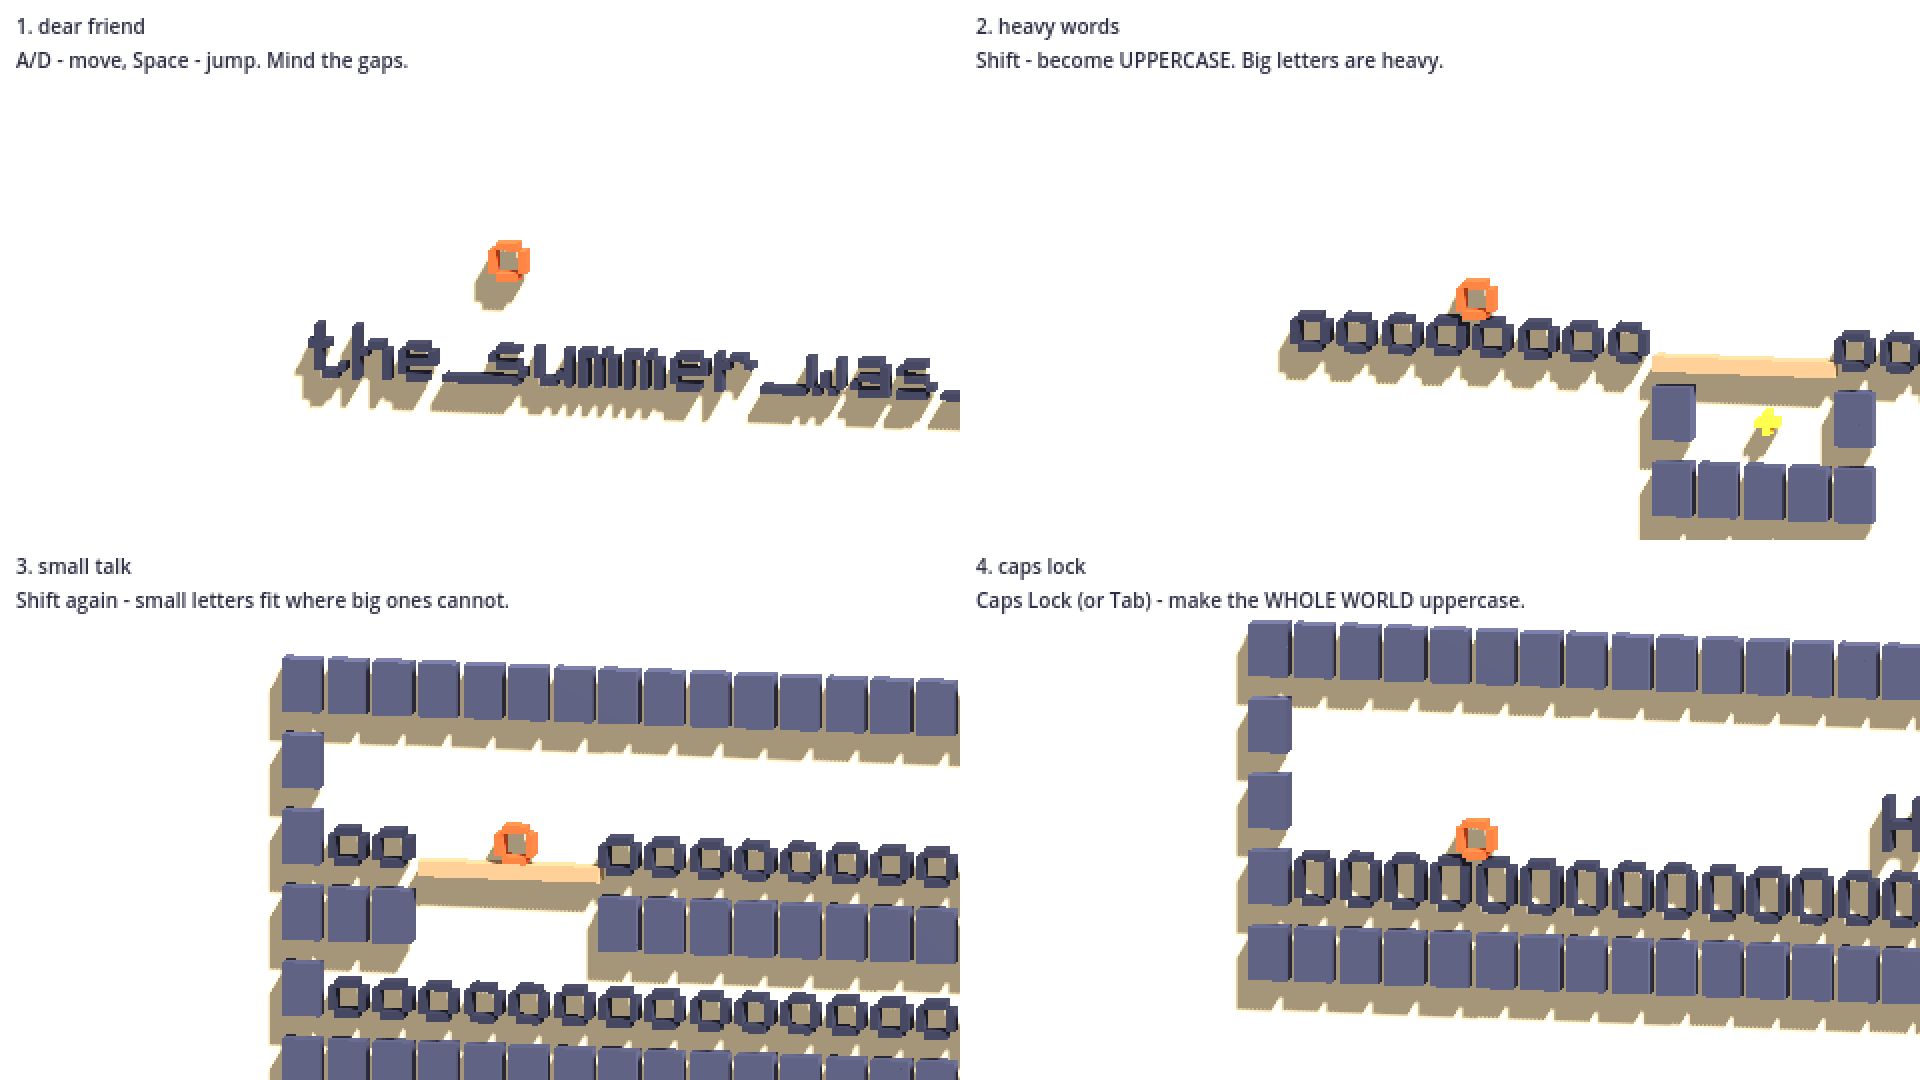
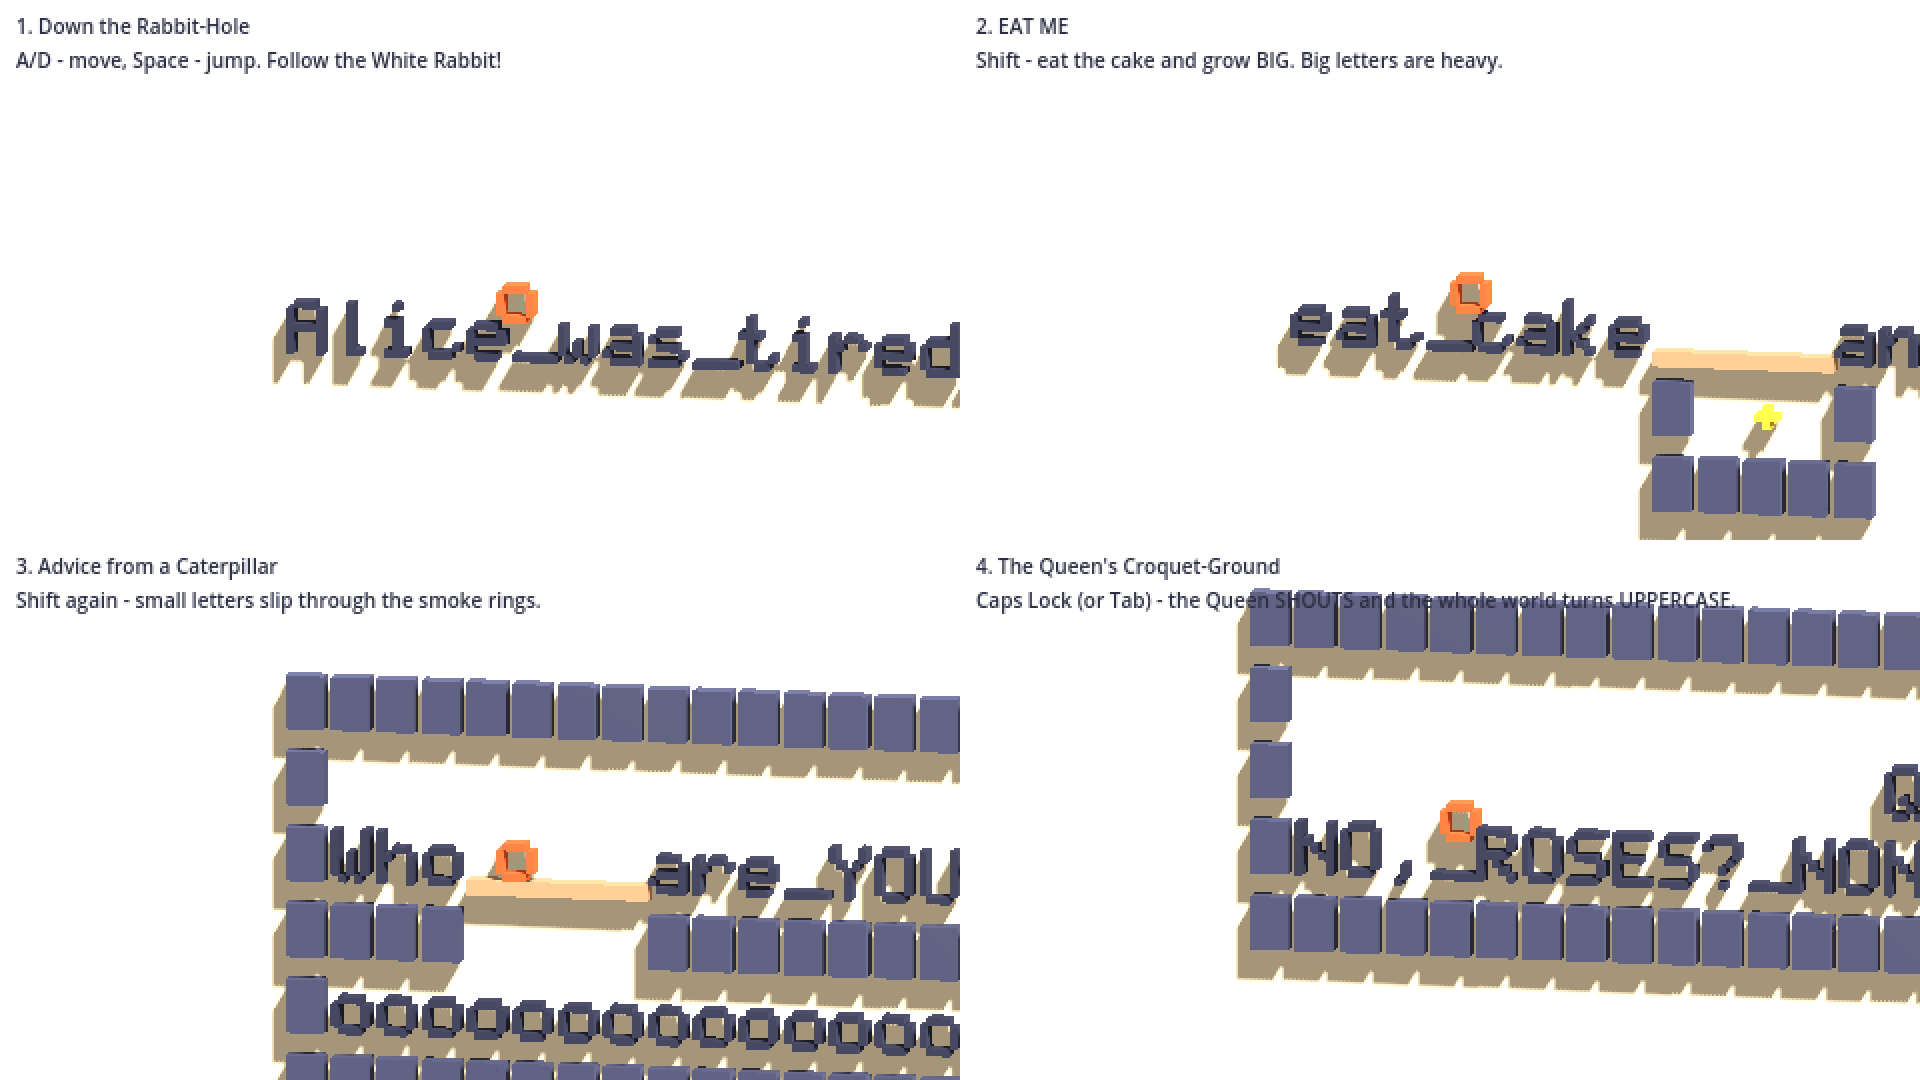
Level 5: Pool of Tears

diff --git a/docs/GDD.md b/docs/GDD.md
@@ -1,7 +1,20 @@
 # Shift Happens — GDD (1 page)
 
-**Pitch.** Cozy voxel puzzle-platformer. You are a letter restoring a scattered friendly
-letter. Every level brings back one line; the last screen shows the whole letter.
+**Pitch.** Cozy voxel puzzle-platformer through *Alice's Adventures in Wonderland*
+(Lewis Carroll, 1865 — public domain). You are a letter living inside the book. Levels are
+built from real lines of the text. Alice keeps changing size — so do you (Shift).
+
+**Story arc (one chapter per level, one story line restored per level):**
+1. Down the Rabbit-Hole — follow the White Rabbit, fall down the hole (movement).
+2. EAT ME — eat the cake, grow BIG, break through (Shift → UPPERCASE).
+3. Advice from a Caterpillar — "Who are YOU?", shrink through smoke rings (Shift back).
+4. The Queen's Croquet-Ground — the Queen SHOUTS, world turns UPPERCASE (Caps Lock).
+5+. Ideas: Pool of Tears (rising water of letters), Cheshire Cat (text fades, only grin
+   left), Mad Tea-Party ("Move down!" — shift seats), Trial ("a pack of cards!"), wake up.
+Final screen: all restored lines + "...and then Alice woke up."
+
+**Text rules:** quote only the original 1865 book text (public domain). No art, names or
+designs from film/game adaptations (Disney etc.).
 
 **Theme SHIFT, two keys:**
 - **Shift** — toggle the hero's case.

diff --git a/docs/alice_quotes.md b/docs/alice_quotes.md
@@ -1,0 +1,26 @@
+# Alice quotes for levels (Lewis Carroll, 1865 — public domain)
+Use only these (or verify against Project Gutenberg eBook #11). Fragments are fine.
+
+## Ch.1 Down the Rabbit-Hole
+- Oh dear! Oh dear! I shall be late!
+- DRINK ME
+- EAT ME
+## Ch.2 The Pool of Tears
+- Curiouser and curiouser!
+- I wish I hadnt cried so much!   (apostrophe removed for the font)
+## Ch.5 Advice from a Caterpillar
+- Who are YOU?
+## Ch.6 Pig and Pepper (Cheshire Cat)
+- we are all mad here   (original: "we're all mad here")
+- a grin without a cat
+## Ch.7 A Mad Tea-Party
+- Take some more tea
+- Why is a raven like a writing-desk?
+- No room! No room!
+- let us all move one place on   (original: "let's all move one place on")
+## Ch.8 The Queen's Croquet-Ground
+- Off with her head!
+## Ch.11-12 The Trial
+- Begin at the beginning
+- Sentence first, verdict afterwards.
+- You are nothing but a pack of cards!   (original: "You're nothing but a pack of cards!")

diff --git a/README.md b/README.md
@@ -1,8 +1,9 @@
 # Shift Happens
 
 A cozy voxel puzzle-platformer for **GitHub Game Off 2026** (theme: **SHIFT**).
-You are a single letter. Press **Shift** to change your case, **Caps Lock** to change the
-case of the whole world, and restore a scattered letter to a friend.
+A journey through *Alice's Adventures in Wonderland* — the levels are made of the book's
+own lines. Like Alice, you keep changing size: press **Shift** to switch your letter between
+lowercase and UPPERCASE, and **Caps Lock** when the Queen shouts and the whole world follows.
 
 ## Controls
 | Key | Action |
@@ -23,4 +24,5 @@ Plain text files in `levels/`, format described at the top of `scripts/level.gd`
 ## Credits
 - Code & design: <your name>
 - Pixel font for voxels: original, made for this game.
+- Story text: *Alice's Adventures in Wonderland* by Lewis Carroll (1865), public domain.
 - AI-assisted code. No AI-generated art, music or text.
